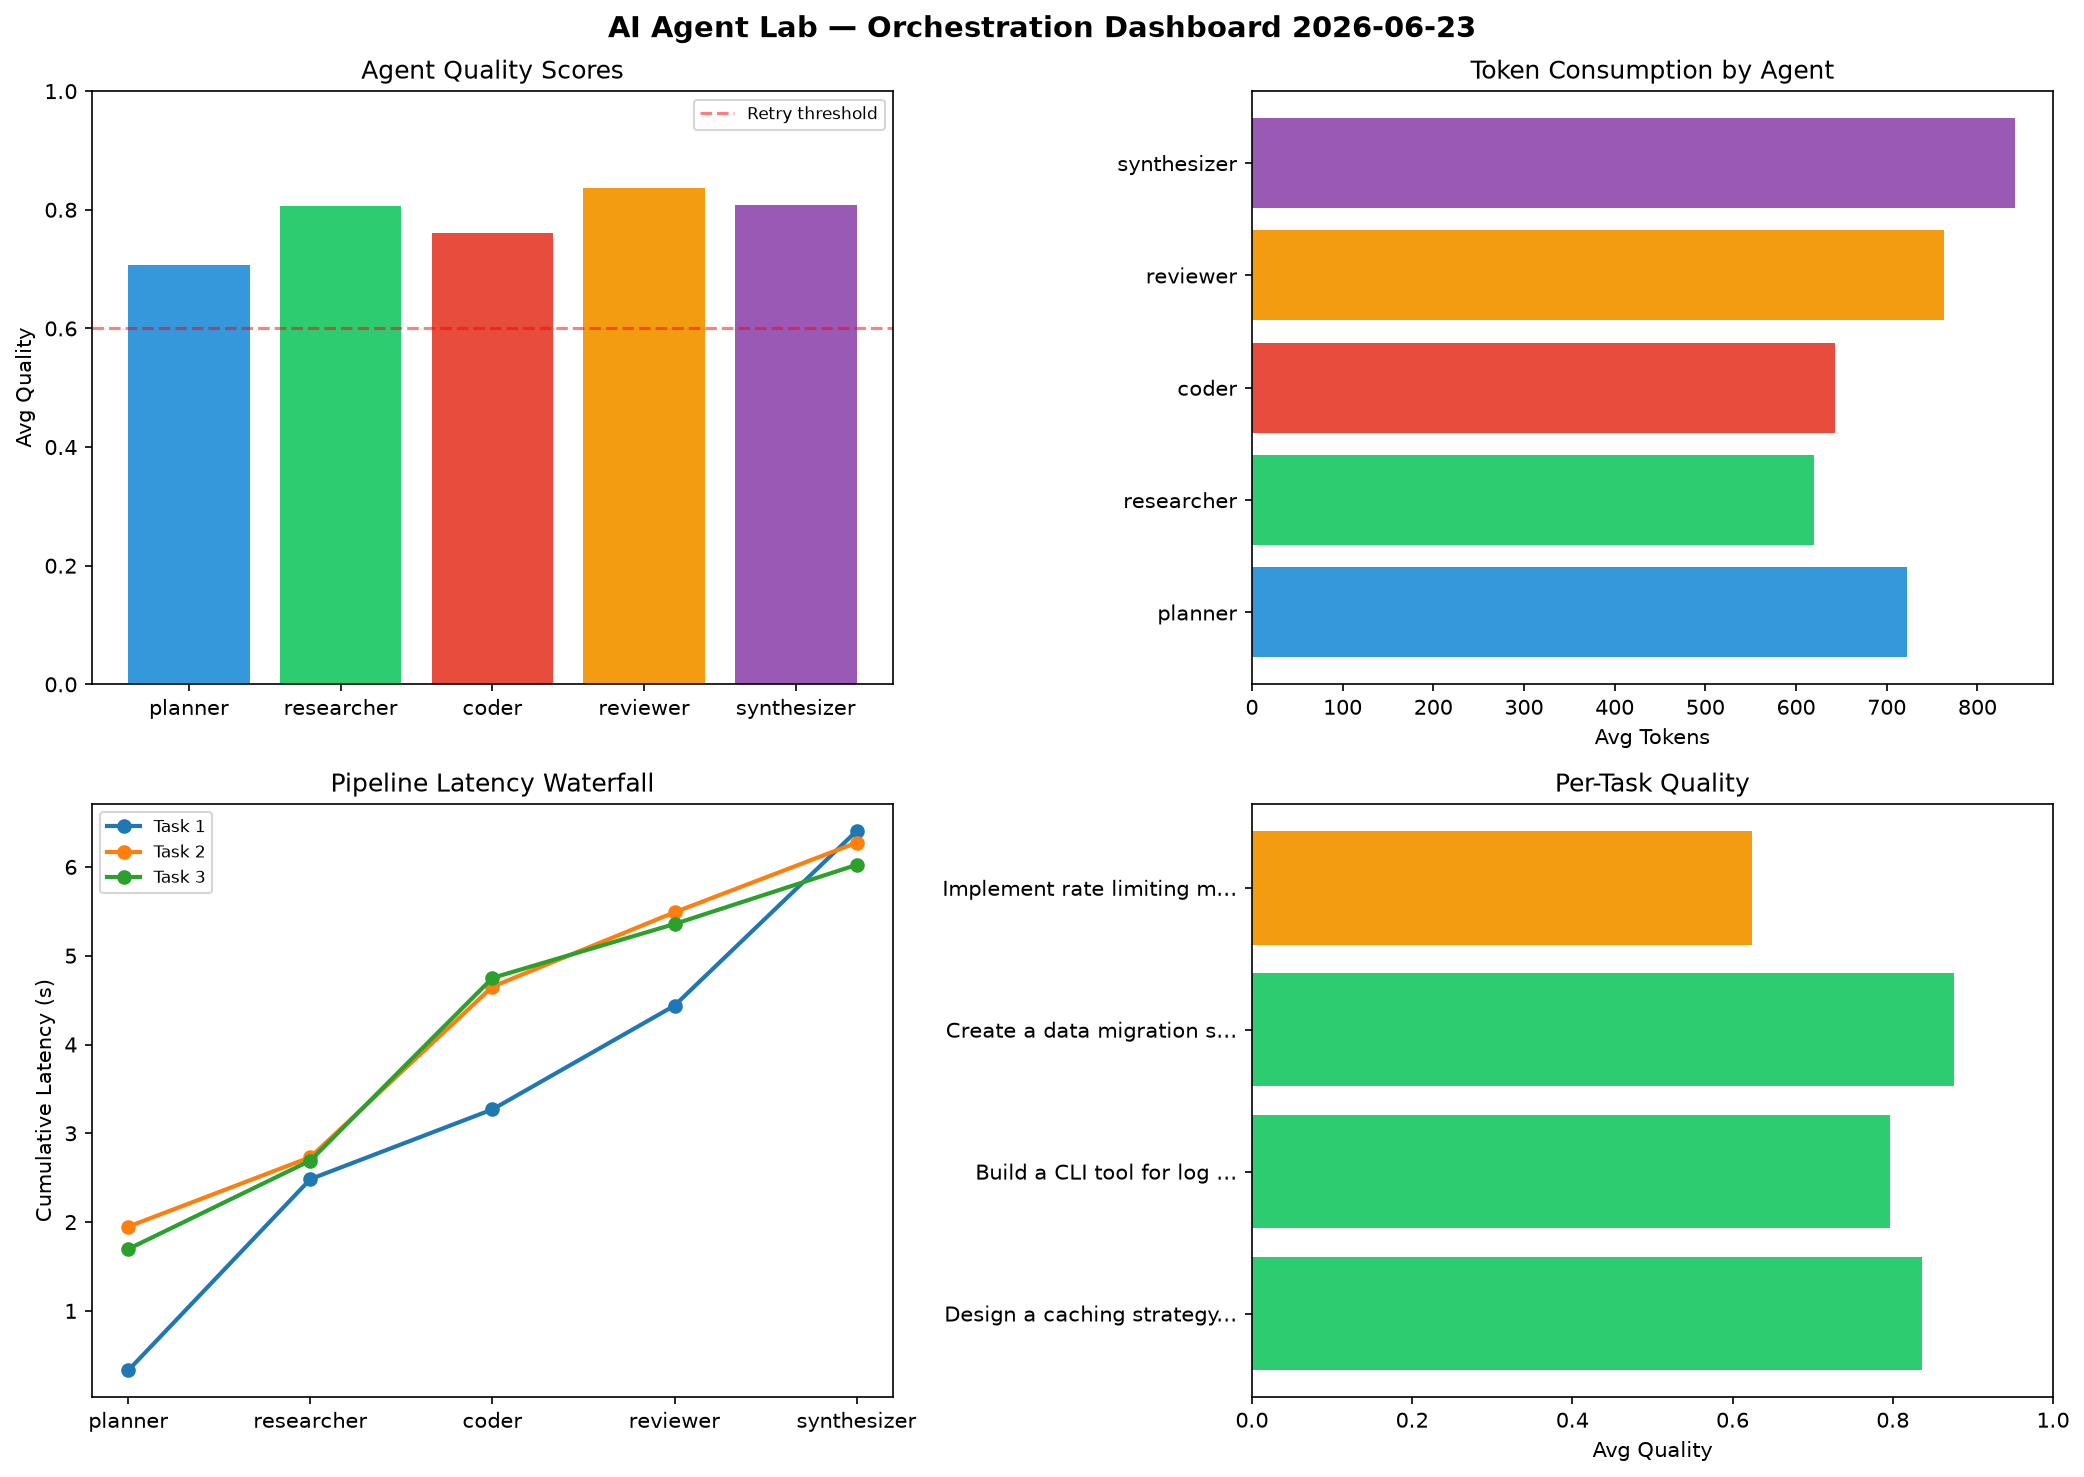
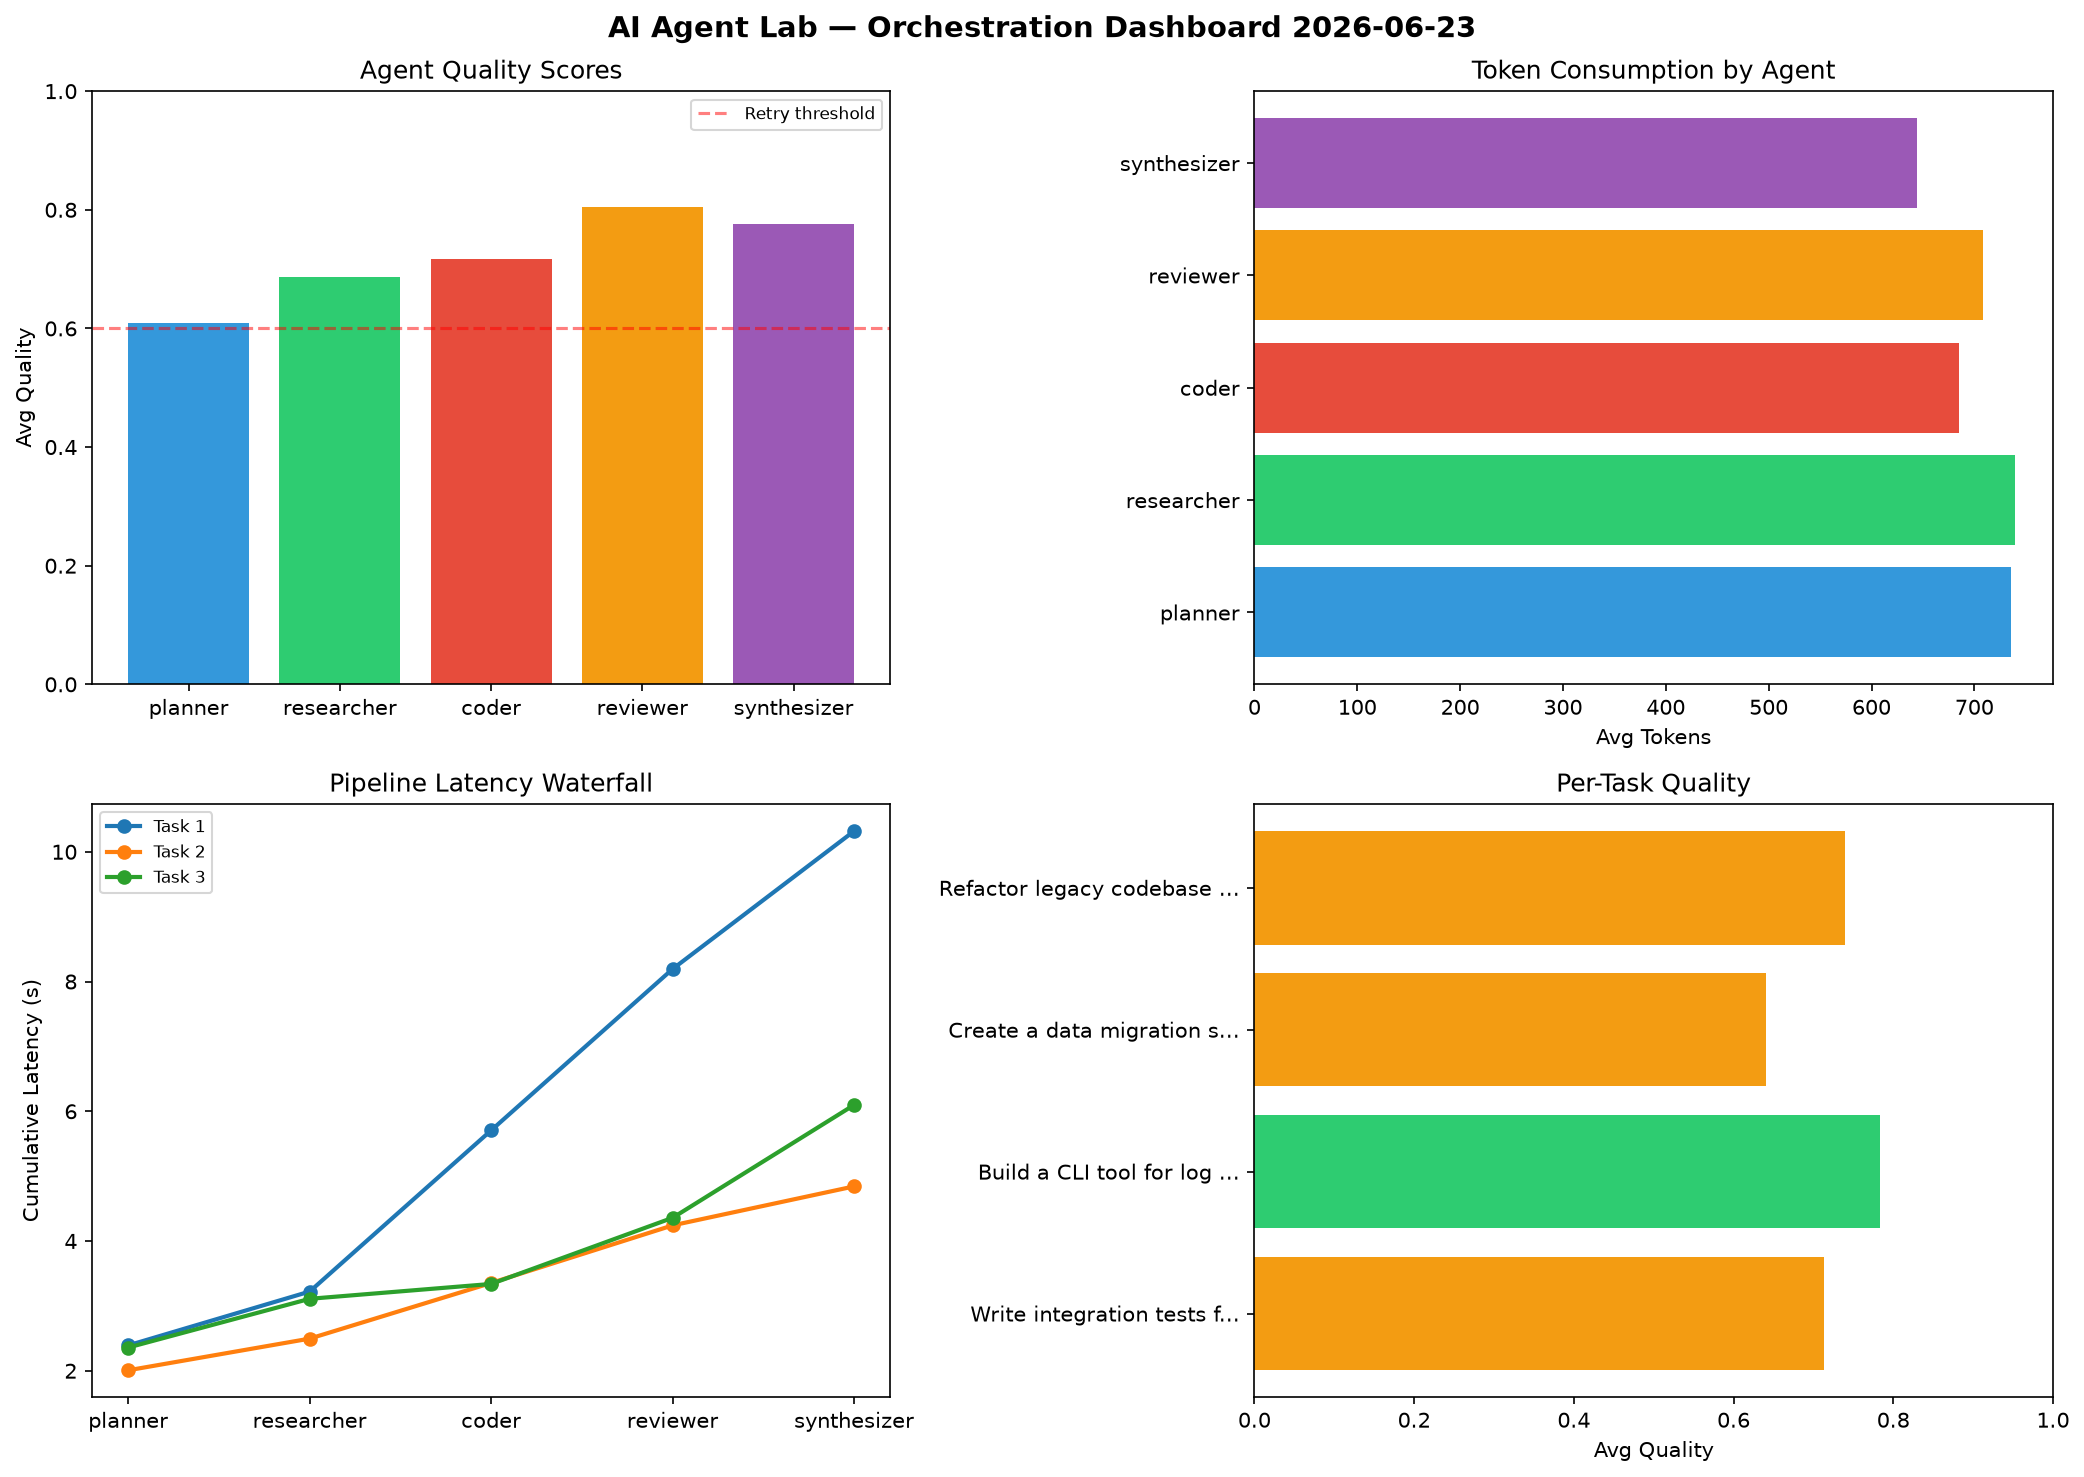
ai-agent-lab: orchestration run 2026-06-23T21:52

diff --git a/logs/2026-06-23.md b/logs/2026-06-23.md
@@ -1,6 +1,6 @@
 # AI Agent Lab — Orchestration Report 2026-06-23
 
-**Run ID:** `fdbf3d75d4` | **Tasks:** 4 | **Avg Quality:** 0.783
+**Run ID:** `b5a9de3fdd` | **Tasks:** 4 | **Avg Quality:** 0.719
 
 ![Dashboard](2026-06-23_dashboard.png)
 
@@ -8,52 +8,52 @@
 
 | Metric | Value |
 |--------|-------|
-| avg_latency | 5.918 |
-| total_tokens | 14357 |
-| avg_quality | 0.783 |
+| avg_latency | 6.677 |
+| total_tokens | 14049 |
+| avg_quality | 0.719 |
 
 ## Delta vs Yesterday
 
 | Metric | Today | Yesterday | Change |
 |--------|-------|-----------|--------|
-| avg_latency | 5.918 | 6.757 | 📉 -12.4% |
-| total_tokens | 14357 | 13668 | 📈 5.0% |
-| avg_quality | 0.783 | 0.709 | 📈 10.4% |
+| avg_latency | 6.677 | 6.757 | 📉 -1.2% |
+| total_tokens | 14049 | 13668 | 📈 2.8% |
+| avg_quality | 0.719 | 0.709 | 📈 1.4% |
 
 ## Pipeline Results
 
-### Design a caching strategy for high-traffic endpoints
+### Write integration tests for payment processing module
 | Agent | Quality | Latency | Tokens | Status |
 |-------|---------|---------|--------|--------|
-| planner | 0.593 | 0.331s | 658 | needs_retry |
-| researcher | 0.785 | 2.153s | 614 | success |
-| coder | 0.958 | 0.785s | 870 | success |
-| reviewer | 0.975 | 1.169s | 837 | success |
-| synthesizer | 0.871 | 1.966s | 942 | success |
+| planner | 0.571 | 2.391s | 933 | needs_retry |
+| researcher | 0.549 | 0.83s | 572 | needs_retry |
+| coder | 0.71 | 2.485s | 838 | success |
+| reviewer | 0.978 | 2.488s | 686 | success |
+| synthesizer | 0.756 | 2.126s | 859 | success |
 
 ### Build a CLI tool for log analysis
 | Agent | Quality | Latency | Tokens | Status |
 |-------|---------|---------|--------|--------|
-| planner | 0.881 | 1.949s | 525 | success |
-| researcher | 0.754 | 0.782s | 659 | success |
-| coder | 0.606 | 1.92s | 499 | success |
-| reviewer | 0.798 | 0.838s | 720 | success |
-| synthesizer | 0.946 | 0.784s | 632 | success |
+| planner | 0.644 | 2.007s | 520 | success |
+| researcher | 0.794 | 0.488s | 582 | success |
+| coder | 0.862 | 0.858s | 774 | success |
+| reviewer | 0.777 | 0.888s | 392 | success |
+| synthesizer | 0.839 | 0.601s | 467 | success |
 
 ### Create a data migration script for schema v2
 | Agent | Quality | Latency | Tokens | Status |
 |-------|---------|---------|--------|--------|
-| planner | 0.847 | 1.697s | 1058 | success |
-| researcher | 0.875 | 0.996s | 404 | success |
-| coder | 0.89 | 2.057s | 589 | success |
-| reviewer | 0.875 | 0.607s | 1083 | success |
-| synthesizer | 0.896 | 0.666s | 1191 | success |
+| planner | 0.509 | 2.358s | 906 | needs_retry |
+| researcher | 0.605 | 0.751s | 907 | success |
+| coder | 0.687 | 0.229s | 700 | success |
+| reviewer | 0.512 | 1.02s | 885 | needs_retry |
+| synthesizer | 0.885 | 1.74s | 874 | success |
 
-### Implement rate limiting middleware
+### Refactor legacy codebase to use dependency injection
 | Agent | Quality | Latency | Tokens | Status |
 |-------|---------|---------|--------|--------|
-| planner | 0.506 | 0.204s | 647 | needs_retry |
-| researcher | 0.809 | 0.25s | 803 | success |
-| coder | 0.588 | 2.328s | 615 | needs_retry |
-| reviewer | 0.696 | 0.101s | 411 | success |
-| synthesizer | 0.52 | 2.088s | 600 | needs_retry |
+| planner | 0.714 | 0.663s | 584 | success |
+| researcher | 0.798 | 1.638s | 897 | success |
+| coder | 0.607 | 1.208s | 427 | success |
+| reviewer | 0.955 | 1.5s | 870 | success |
+| synthesizer | 0.623 | 0.441s | 376 | success |
